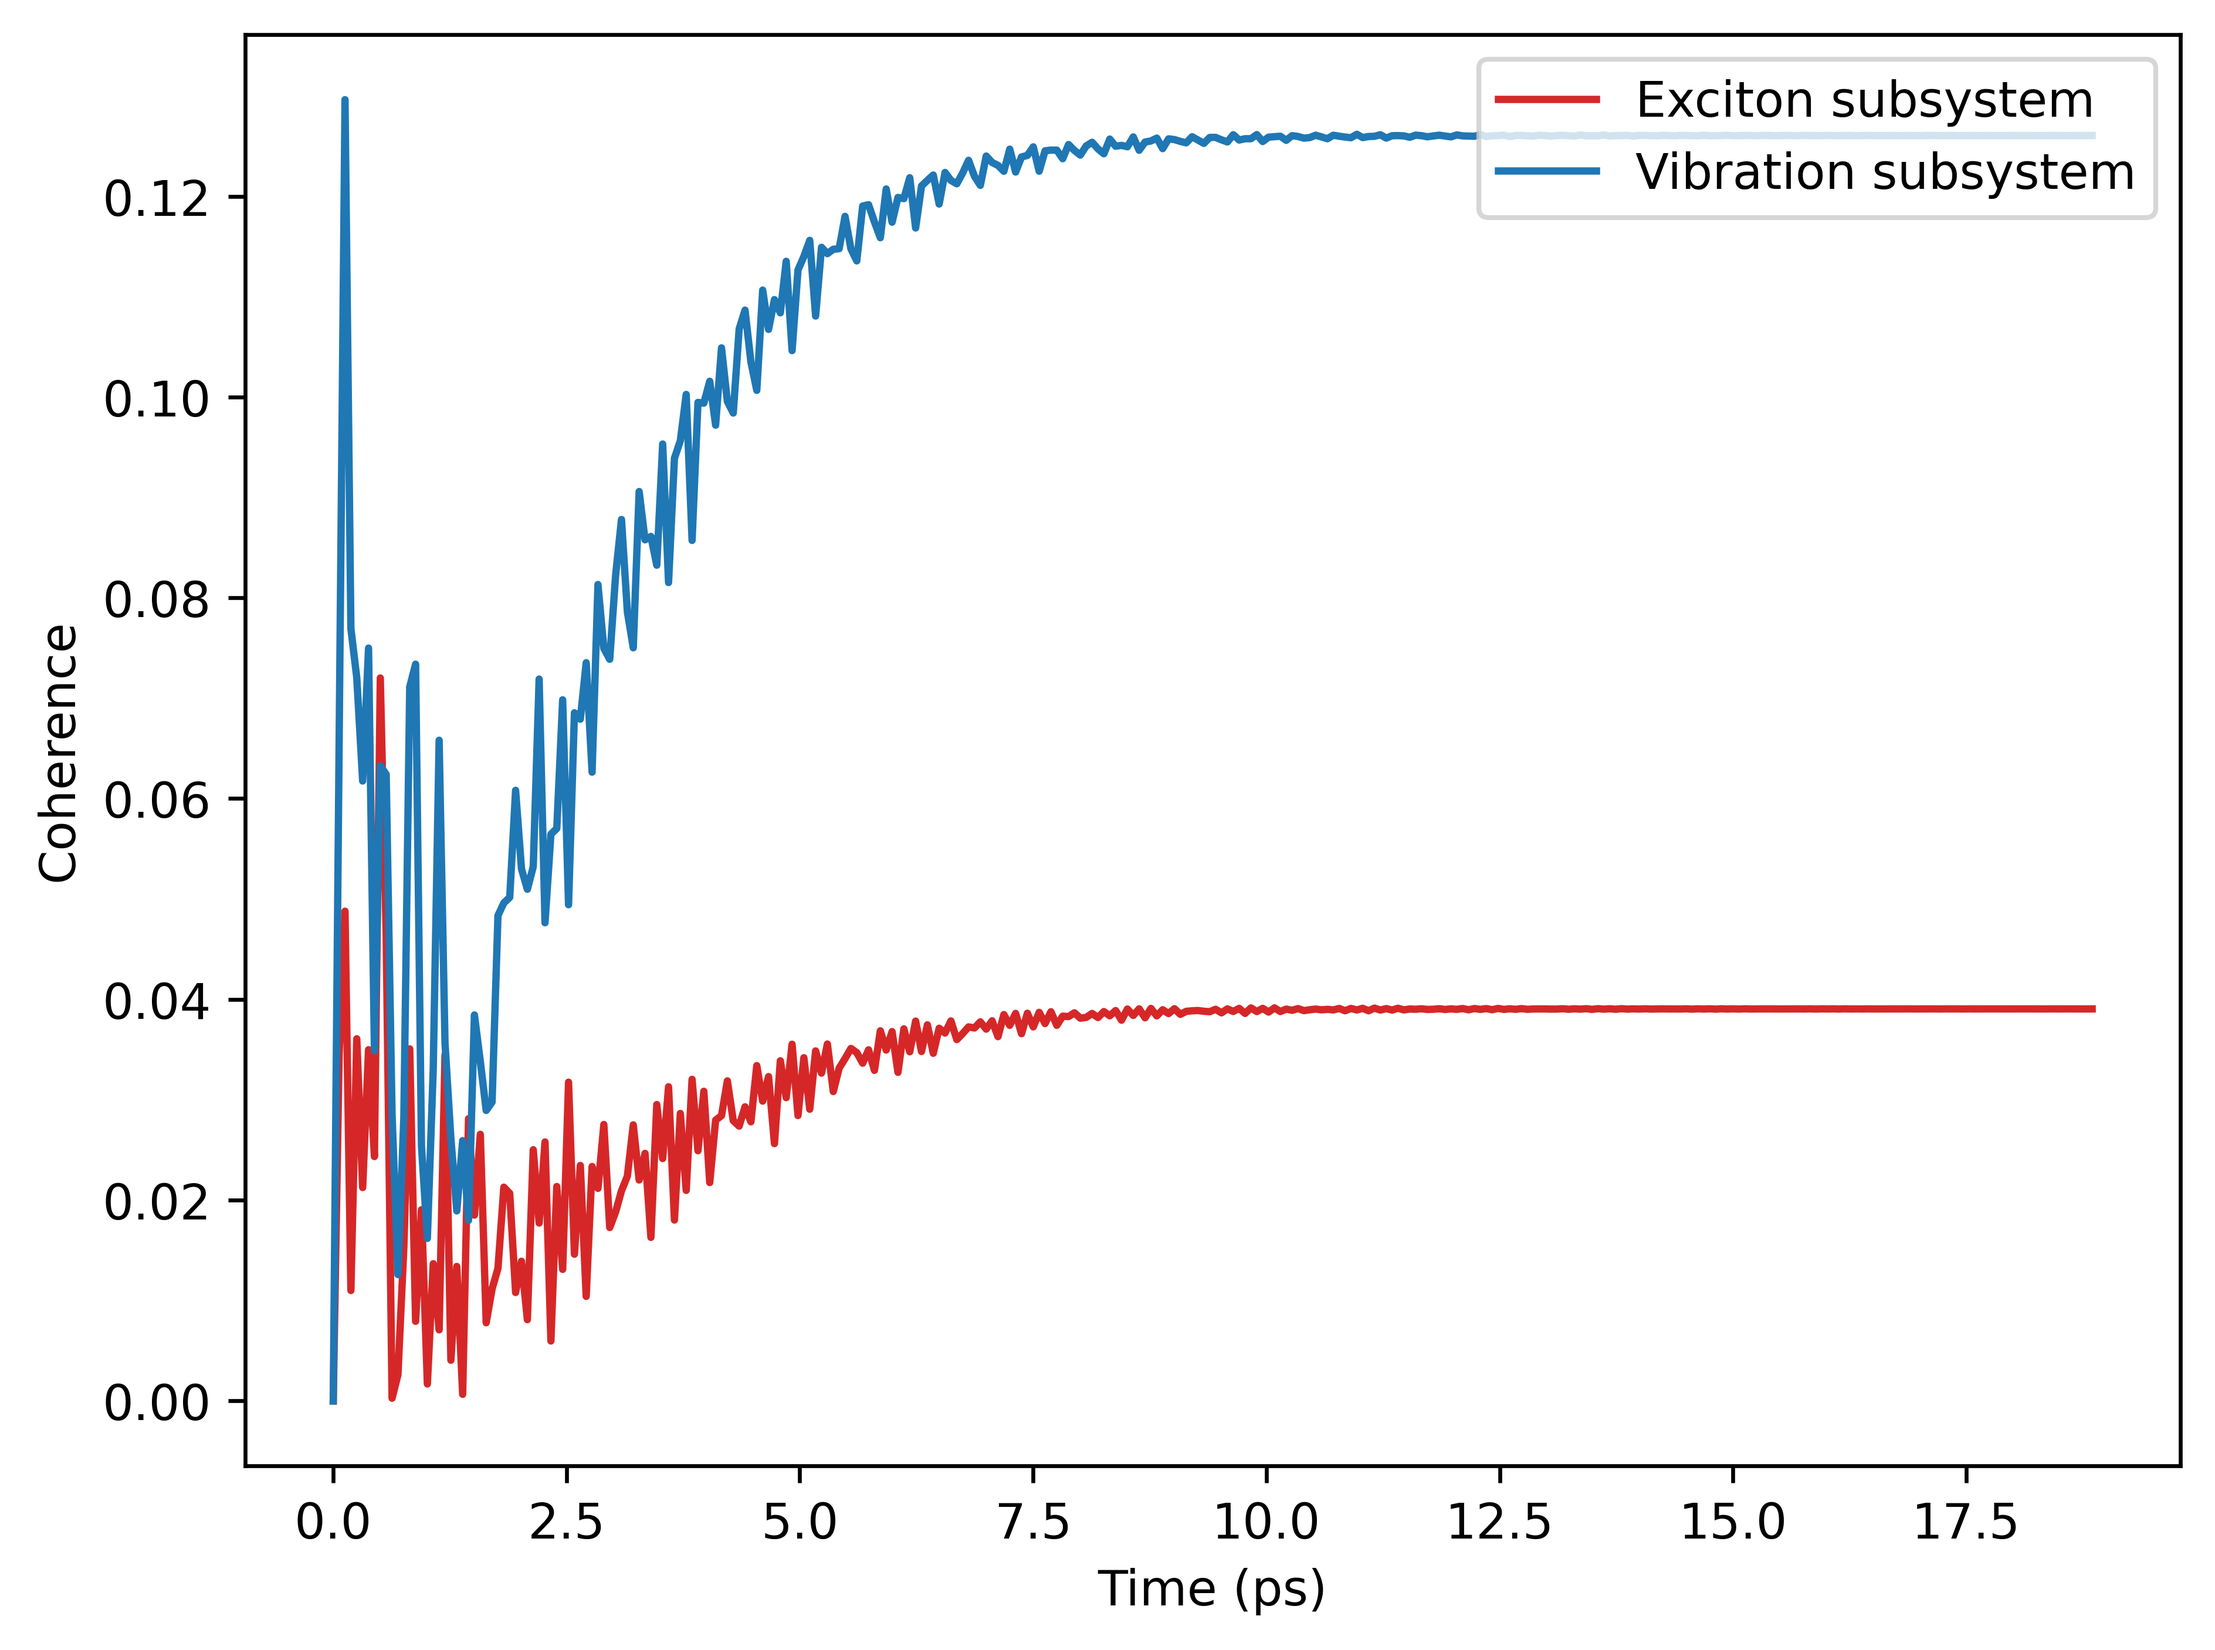
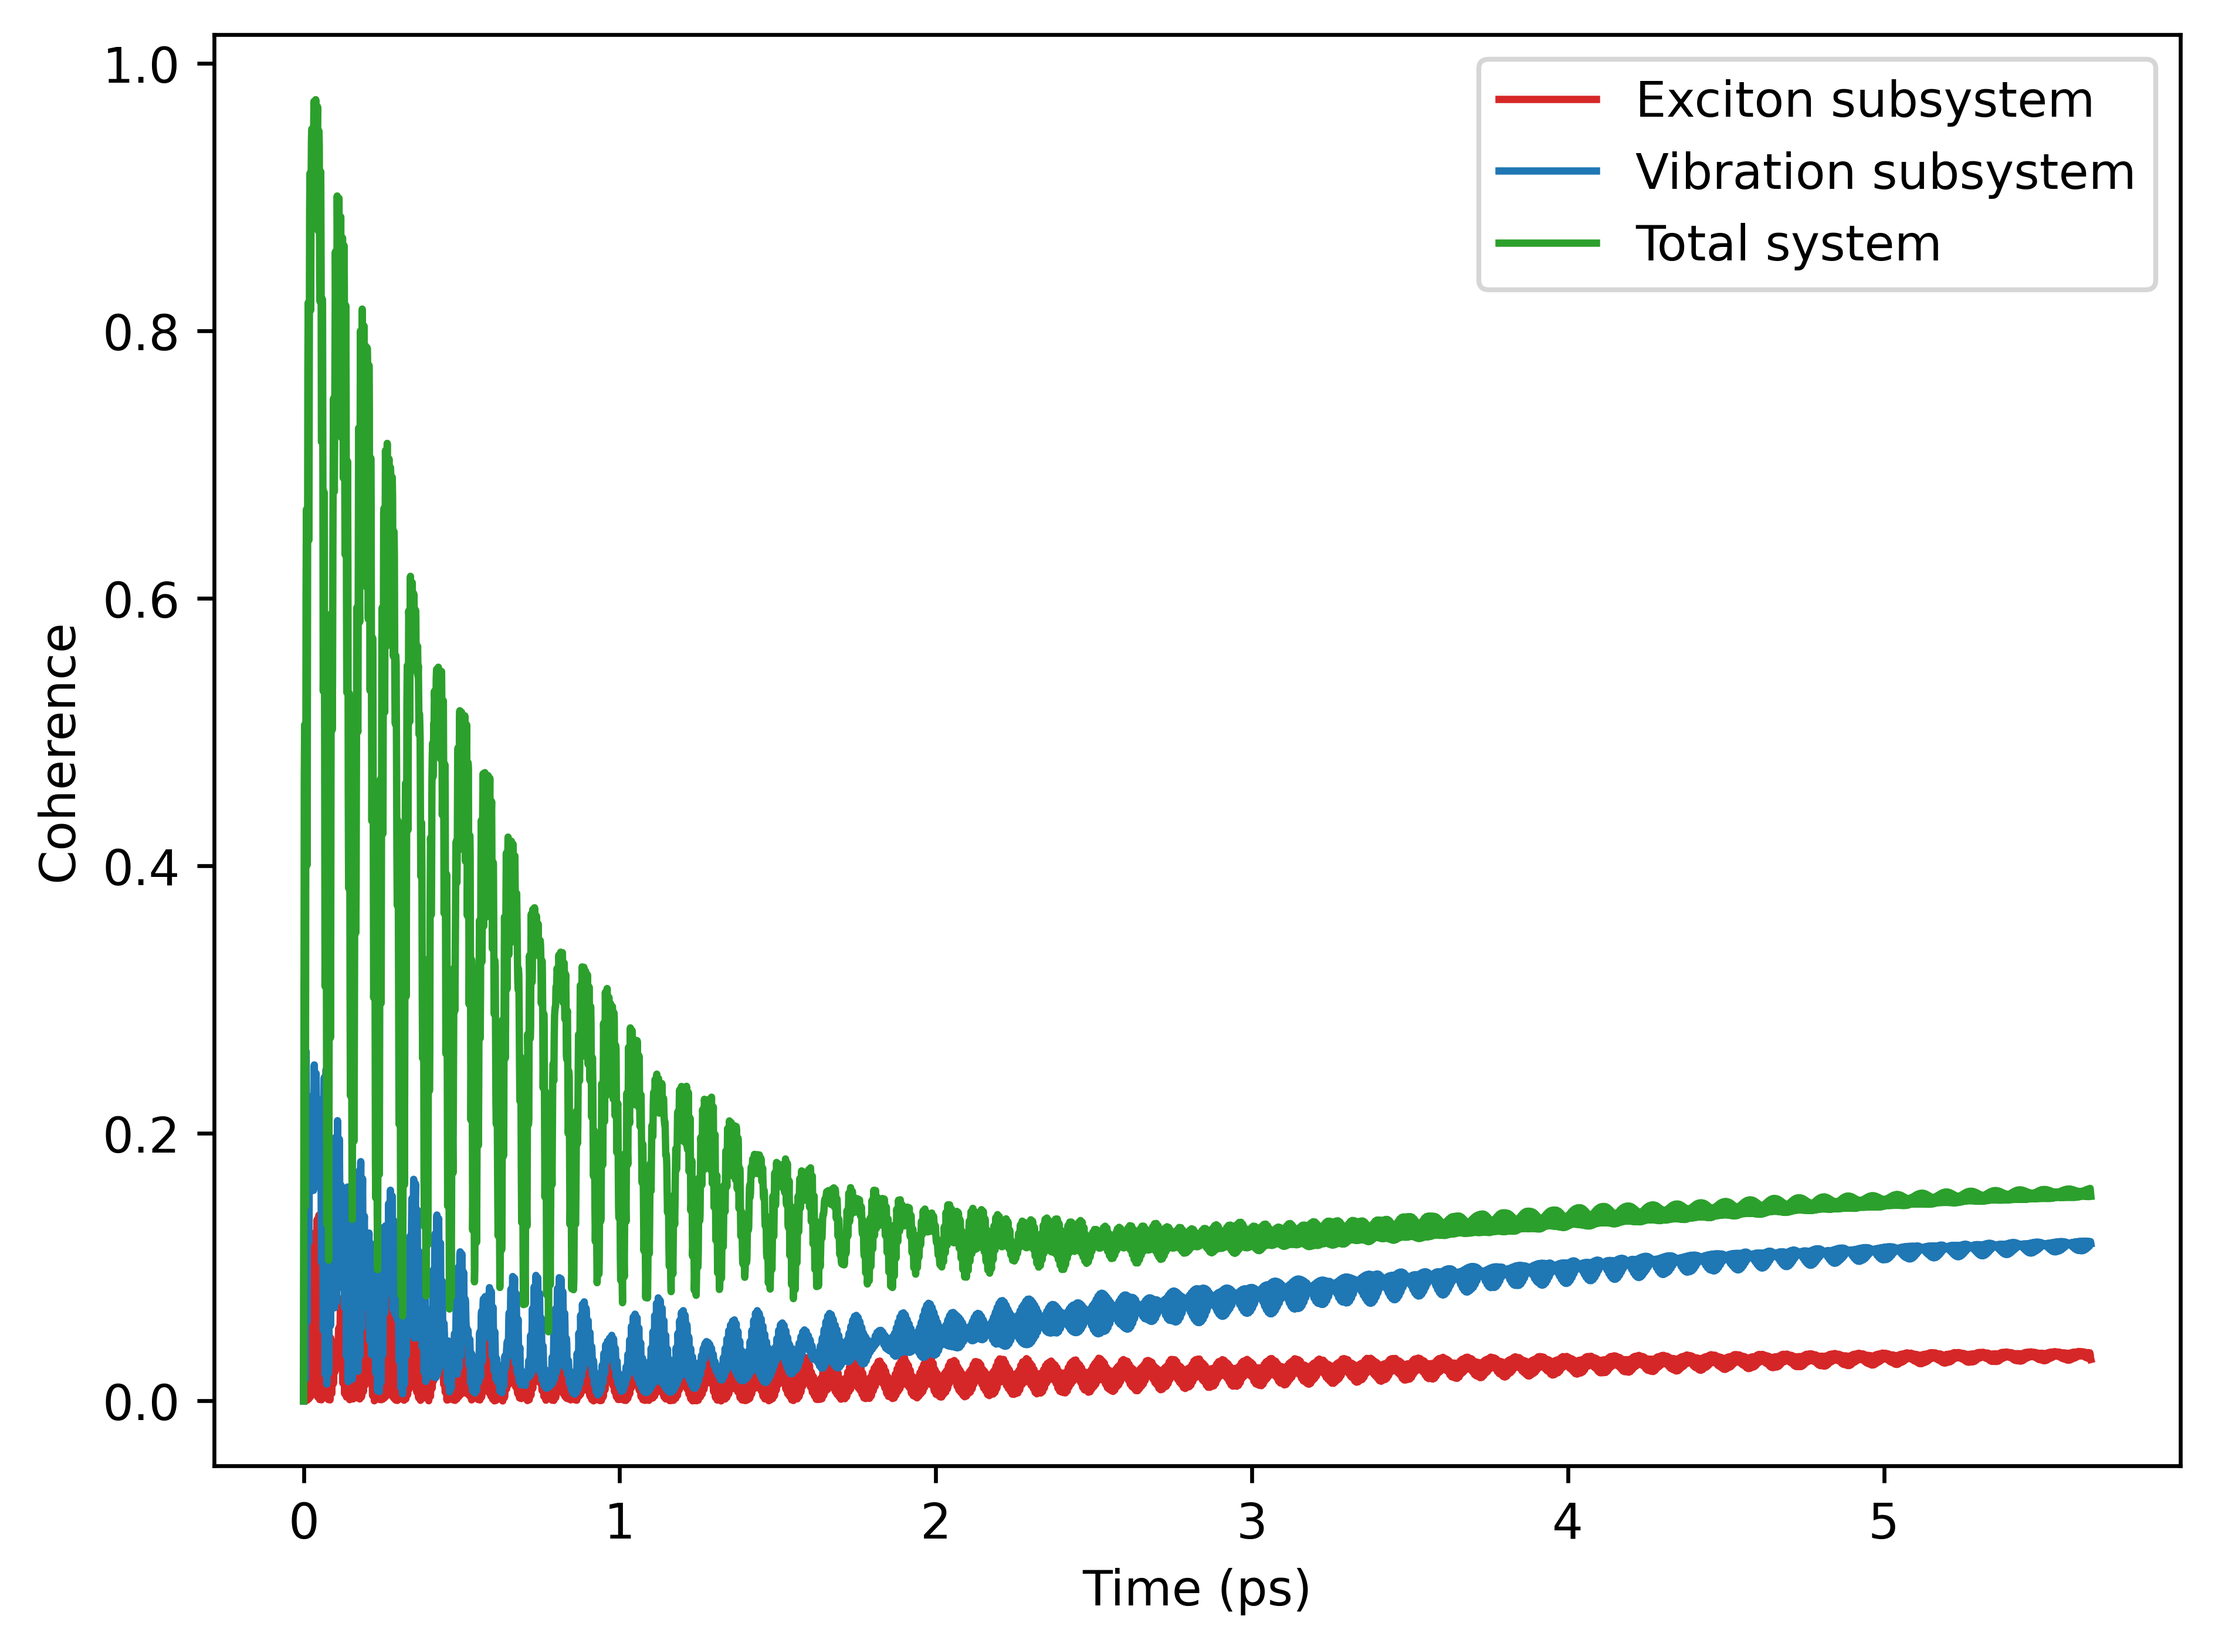
Improves ExVib closed simulation plots by adding an averaged envelope for slower oscillations.

diff --git a/Research Project/Code/ExVib_Closed.py b/Research Project/Code/ExVib_Closed.py
@@ -10,10 +10,11 @@ import math
 # d_epsilon = 1042, V = 92, d_E = 1058, w = 1111 all in cm^-1.
 # g = (0.0578)^0.5 = 267 cm^-1
 # Moreover, T ~ 300K room temp expt.
+t_max_env = 4.5
+tlist_env = np.linspace(0.0, 2 * np.pi * 0.03 * t_max_env, 2500)  # N=2500 for 1ps
+t_max_fast = 0.9  # 1ps
+tlist_fast = np.linspace(0.0, 2 * np.pi * 0.03 * t_max_fast, 2500)
 
-t_max = 45.0  # ps
-tlist = np.linspace(0.0, 2 * np.pi * 0.03 * t_max, 100)
-# TODO : conversion within class tlist_cm = tlist * 2 *np.pi * 3**(-2)
 # t in cm conversion, noting original time is in ps
 
 # params, cm^-1
@@ -27,7 +28,8 @@ N = 10  # num Fock states
 # Bases
 basis_atom_e = q.basis(2, 0)
 basis_atom_g = q.basis(2, 1)
-basis_qho = q.basis(N, 0)
+basis_qho_0 = q.basis(N, 0)
+basis_qho_1 = q.basis(N, 1)
 
 
 # Operators
@@ -45,56 +47,217 @@ H_int = -(g / math.sqrt(2)) * q.tensor(q.sigmaz(), q.destroy(N).dag() + q.destro
 H = H_ex + H_vib + H_int
 
 # Initial Condition
-psi0 = q.tensor(basis_atom_e, basis_qho)
+psi0_e0 = q.tensor(basis_atom_e, basis_qho_0)
+psi0_eg = q.tensor(basis_atom_e + basis_atom_g, basis_qho_0) / math.sqrt(2)
+############################ SIMULATION ENV ###################################
+n1_pop = q.tensor(q.qeye(2), basis_qho_1 * basis_qho_1.dag())  # QHO pop |n=1>
+e_ops = [s_lower * s_raise, n1_pop]
 
-############################ SIMULATION ###################################
-n0_pop = q.tensor(q.qeye(2), basis_qho * basis_qho.dag())  # QHO pop |n=0>
-e_ops = [s_lower * s_raise, n0_pop]
+sim_e0_env = TLSQHOSimulator(H, psi0_e0, e_ops=e_ops, times=tlist_env)
+sim_eg_env = TLSQHOSimulator(H, psi0_eg, e_ops=e_ops, times=tlist_env)
+results_e0_env = sim_e0_env.evolve()
+results_eg_env = sim_eg_env.evolve()
 
-sim = TLSQHOSimulator(H, psi0, e_ops=e_ops, times=tlist)
-results = sim.evolve()
+results_expt_e0_env = sim_e0_env.expect(results_e0_env)
+results_expt_eg_env = sim_eg_env.expect(results_eg_env)
 
-results_expt = sim.expect(results)
+vne_e0_env = sim_e0_env.vne(results_e0_env)
 
-vne = sim.vne(results)
+vne_eg_env = sim_eg_env.vne(results_eg_env)
 
-coh_tls = sim.rel_coherence(results, subsys="TLS")
-coh_qho = sim.rel_coherence(results, subsys="QHO")
+coh_tls_e0_env = sim_e0_env.rel_coherence(results_e0_env, subsys="TLS")
+coh_qho_e0_env = sim_e0_env.rel_coherence(results_e0_env, subsys="QHO")
+coh_tot_e0_env = sim_e0_env.rel_coherence(results_e0_env)
+
+coh_tls_eg_env = sim_eg_env.rel_coherence(results_eg_env, subsys="TLS")
+coh_qho_eg_env = sim_eg_env.rel_coherence(results_eg_env, subsys="QHO")
+coh_tot_eg_env = sim_eg_env.rel_coherence(results_eg_env)
 
 
-############################### PLOTS #####################################
+############################ SIMULATION FAST ###################################
 
-sim.plot(
-    "pops_excited",
+
+sim_e0_fast = TLSQHOSimulator(H, psi0_e0, e_ops=e_ops, times=tlist_fast)
+sim_eg_fast = TLSQHOSimulator(H, psi0_eg, e_ops=e_ops, times=tlist_fast)
+results_e0_fast = sim_e0_fast.evolve()
+results_eg_fast = sim_eg_fast.evolve()
+
+results_expt_e0_fast = sim_e0_fast.expect(results_e0_fast)
+results_expt_eg_fast = sim_eg_fast.expect(results_eg_fast)
+
+vne_e0_fast = sim_e0_fast.vne(results_e0_fast)
+
+vne_eg_fast = sim_eg_fast.vne(results_eg_fast)
+
+coh_tls_e0_fast = sim_e0_fast.rel_coherence(results_e0_fast, subsys="TLS")
+coh_qho_e0_fast = sim_e0_fast.rel_coherence(results_e0_fast, subsys="QHO")
+coh_tot_e0_fast = sim_e0_fast.rel_coherence(results_e0_fast)
+
+coh_tls_eg_fast = sim_eg_fast.rel_coherence(results_eg_fast, subsys="TLS")
+coh_qho_eg_fast = sim_eg_fast.rel_coherence(results_eg_fast, subsys="QHO")
+coh_tot_eg_fast = sim_eg_fast.rel_coherence(results_eg_fast)
+
+############################### PLOTS ENV #####################################
+
+sim_e0_env.plot(
+    "pops_ground",
     [
         {
-            "y_data": results_expt[0],
+            "y_data": results_expt_e0_env[0],
             "label": "Exciton ground state",
             "colour": "tab:blue",
         },
         {
-            "y_data": results_expt[1],
-            "label": "Vibration photon number",
+            "y_data": results_expt_e0_env[1],
+            "label": "Vibration photon number, n = 1",
             "colour": "tab:red",
         },
     ],
     y_label="Expectation Values",
-    savepath="/ExVib/Closed",
+    savepath="/ExVib/Closed/Envelope",
+    smooth=150,
 )
 
-sim.plot(
+sim_e0_env.plot(
     "vne",
-    [{"y_data": vne}],
+    [{"y_data": vne_e0_env}],
     y_label="Von Neumann Entanglement Entropy",
-    savepath="/ExVib/Closed",
+    savepath="/ExVib/Closed/Envelope",
+    smooth=150
 )
 
-sim.plot(
+sim_e0_env.plot(
     "coh",
     [
-        {"y_data": coh_tls, "label": "Exciton subsystem", "colour": "tab:blue"},
-        {"y_data": coh_qho, "label": "Vibration subsystem", "colour": "tab:red"},
+        {"y_data": coh_tls_e0_env, "label": "Exciton subsystem", "colour": "tab:blue"},
+        {"y_data": coh_qho_e0_env, "label": "Vibration subsystem", "colour": "tab:red"},
+        {"y_data": coh_tot_e0_env, "label": "Total system", "colour": "tab:green"},
     ],
     y_label="Relative Entropy of Coherence",
-    savepath="/ExVib/Closed",
+    savepath="/ExVib/Closed/Envelope",
+    smooth=150
+)
+
+
+sim_eg_env.plot(
+    "pops_ground_eg",
+    [
+        {
+            "y_data": results_expt_eg_env[0],
+            "label": "Exciton ground state",
+            "colour": "tab:blue",
+        },
+        {
+            "y_data": results_expt_eg_env[1],
+            "label": "Vibration photon number, n = 1",
+            "colour": "tab:red",
+        },
+    ],
+    y_label="Expectation Values",
+    savepath="/ExVib/Closed/Envelope",
+    smooth=150
+)
+
+sim_eg_env.plot(
+    "vne_eg",
+    [{"y_data": vne_eg_env}],
+    y_label="Von Neumann Entanglement Entropy",
+    savepath="/ExVib/Closed/Envelope",
+    smooth=150
+)
+
+sim_eg_env.plot(
+    "coh_eg",
+    [
+        {"y_data": coh_tls_eg_env, "label": "Exciton subsystem", "colour": "tab:blue"},
+        {"y_data": coh_qho_eg_env, "label": "Vibration subsystem", "colour": "tab:red"},
+        {"y_data": coh_tot_eg_env, "label": "Total system", "colour": "tab:green"},
+    ],
+    y_label="Relative Entropy of Coherence",
+    savepath="/ExVib/Closed/Envelope",
+    smooth=150
+)
+
+
+############################### PLOTS ENV #####################################
+
+sim_e0_fast.plot(
+    "pops_ground",
+    [
+        {
+            "y_data": results_expt_e0_fast[0],
+            "label": "Exciton ground state",
+            "colour": "tab:blue",
+        },
+        {
+            "y_data": results_expt_e0_fast[1],
+            "label": "Vibration photon number, n = 1",
+            "colour": "tab:red",
+        },
+    ],
+    y_label="Expectation Values",
+    savepath="/ExVib/Closed/Fast",
+)
+
+sim_e0_fast.plot(
+    "vne",
+    [{"y_data": vne_e0_fast}],
+    y_label="Von Neumann Entanglement Entropy",
+    savepath="/ExVib/Closed/Fast",
+)
+
+sim_e0_fast.plot(
+    "coh",
+    [
+        {"y_data": coh_tls_e0_fast, "label": "Exciton subsystem", "colour": "tab:blue"},
+        {
+            "y_data": coh_qho_e0_fast,
+            "label": "Vibration subsystem",
+            "colour": "tab:red",
+        },
+        {"y_data": coh_tot_e0_fast, "label": "Total system", "colour": "tab:green"},
+    ],
+    y_label="Relative Entropy of Coherence",
+    savepath="/ExVib/Closed/Fast",
+)
+
+
+sim_eg_fast.plot(
+    "pops_ground_eg",
+    [
+        {
+            "y_data": results_expt_eg_fast[0],
+            "label": "Exciton ground state",
+            "colour": "tab:blue",
+        },
+        {
+            "y_data": results_expt_eg_fast[1],
+            "label": "Vibration photon number, n = 1",
+            "colour": "tab:red",
+        },
+    ],
+    y_label="Expectation Values",
+    savepath="/ExVib/Closed/Fast",
+)
+
+sim_eg_fast.plot(
+    "vne_eg",
+    [{"y_data": vne_eg_fast}],
+    y_label="Von Neumann Entanglement Entropy",
+    savepath="/ExVib/Closed/Fast",
+)
+
+sim_eg_fast.plot(
+    "coh_eg",
+    [
+        {"y_data": coh_tls_eg_fast, "label": "Exciton subsystem", "colour": "tab:blue"},
+        {
+            "y_data": coh_qho_eg_fast,
+            "label": "Vibration subsystem",
+            "colour": "tab:red",
+        },
+        {"y_data": coh_tot_eg_fast, "label": "Total system", "colour": "tab:green"},
+    ],
+    y_label="Relative Entropy of Coherence",
+    savepath="/ExVib/Closed/Fast",
 )

diff --git a/Research Project/Code/TLSQHOSimulator.py b/Research Project/Code/TLSQHOSimulator.py
@@ -1,6 +1,7 @@
 import qutip as q
 import numpy as np
 from matplotlib import pyplot as plt
+from scipy.ndimage import uniform_filter1d
 
 
 class TLSQHOSimulator:
@@ -223,6 +224,7 @@ class TLSQHOSimulator:
         x_label: str = None,
         title: str = None,
         savepath: str = None,
+        smooth: int = None,
     ):
         """
         Plots data and saves to specific location in repository.
@@ -235,6 +237,7 @@ class TLSQHOSimulator:
             x_label(str) : Optional, X-axis label.
             title(str) : Optional, name of graph.
             savepath(str) : Optional, path from "results" directory which the user wants to save their plots to.
+            smooth(int) : Optional, plots a smoothed version of graph, using a moving average.
 
         Example:
             sim.plot(
@@ -253,10 +256,22 @@ class TLSQHOSimulator:
             y_data = line["y_data"]
             label = line.get("label", None)
             colour = line.get("colour", "tab:red")
-            line_style = line.get("linestyle", "-")
-            plt.plot(
-                self.times, y_data, color=colour, linestyle=line_style, label=label
-            )
+            linestyle = line.get("linestyle", "-")
+
+            if smooth is not None:
+                plt.plot(self.times, y_data, color=colour, alpha=0.3, linestyle="--")
+                y_data_smooth = uniform_filter1d(y_data, size=smooth) # smooth data
+                plt.plot(
+                    self.times,
+                    y_data_smooth,
+                    color=colour,
+                    label=label,
+                    linestyle=linestyle,
+                )
+            else:
+                plt.plot(
+                    self.times, y_data, color=colour, label=label, linestyle=linestyle
+                )
 
         if any(line.get("label") for line in plot_lines):
             plt.legend(loc="upper right", fontsize=10)
